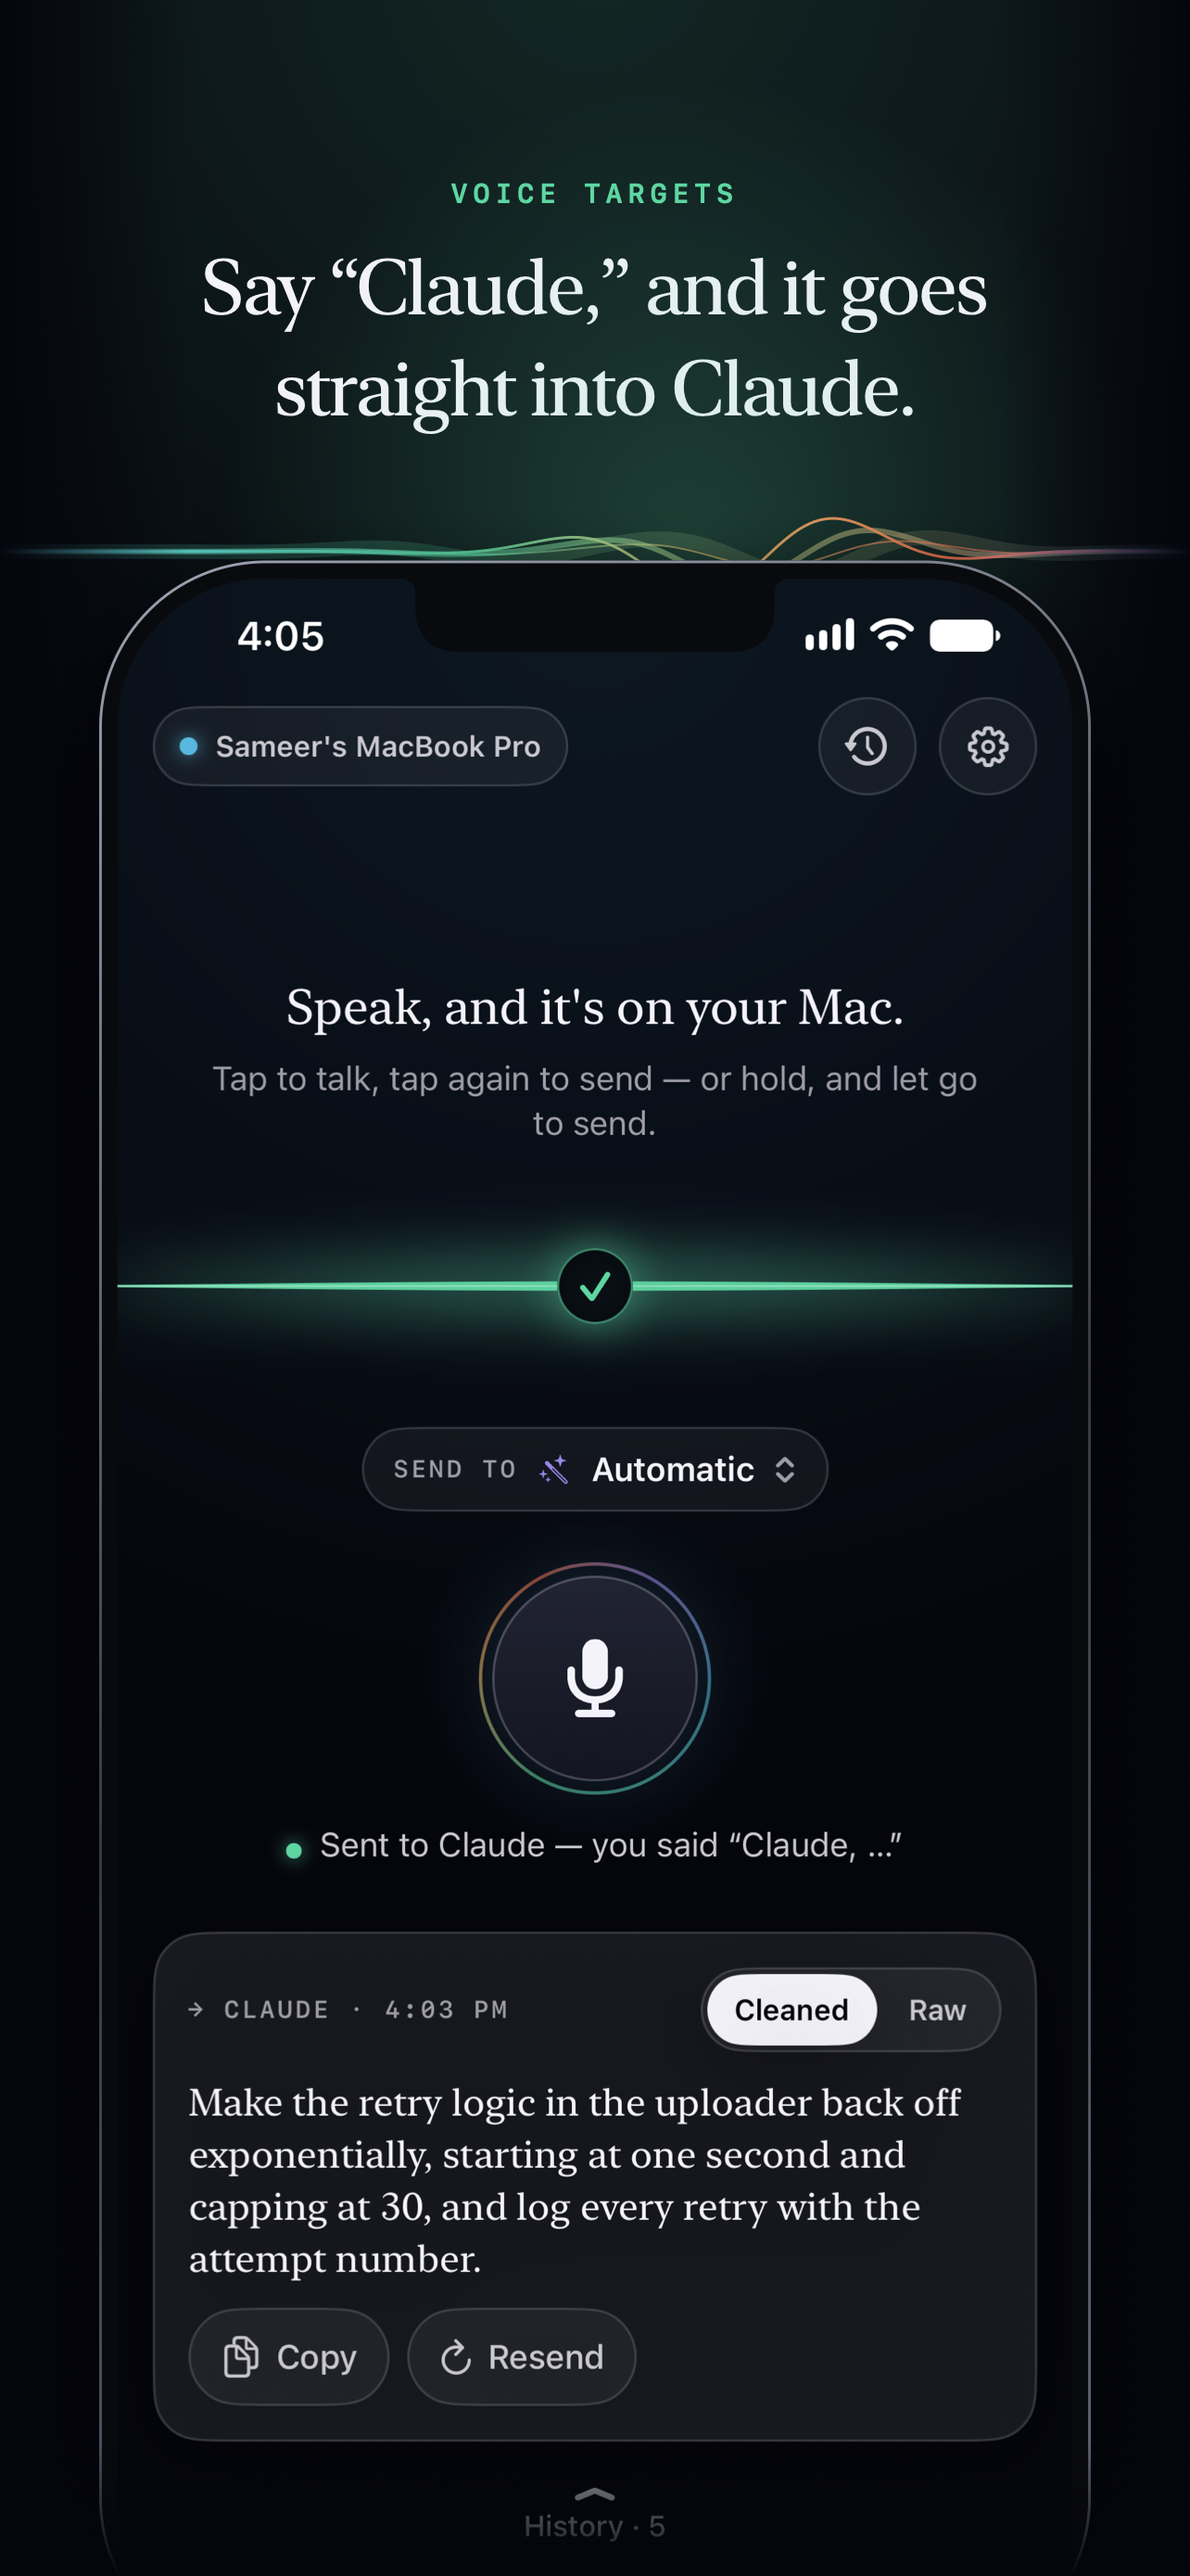
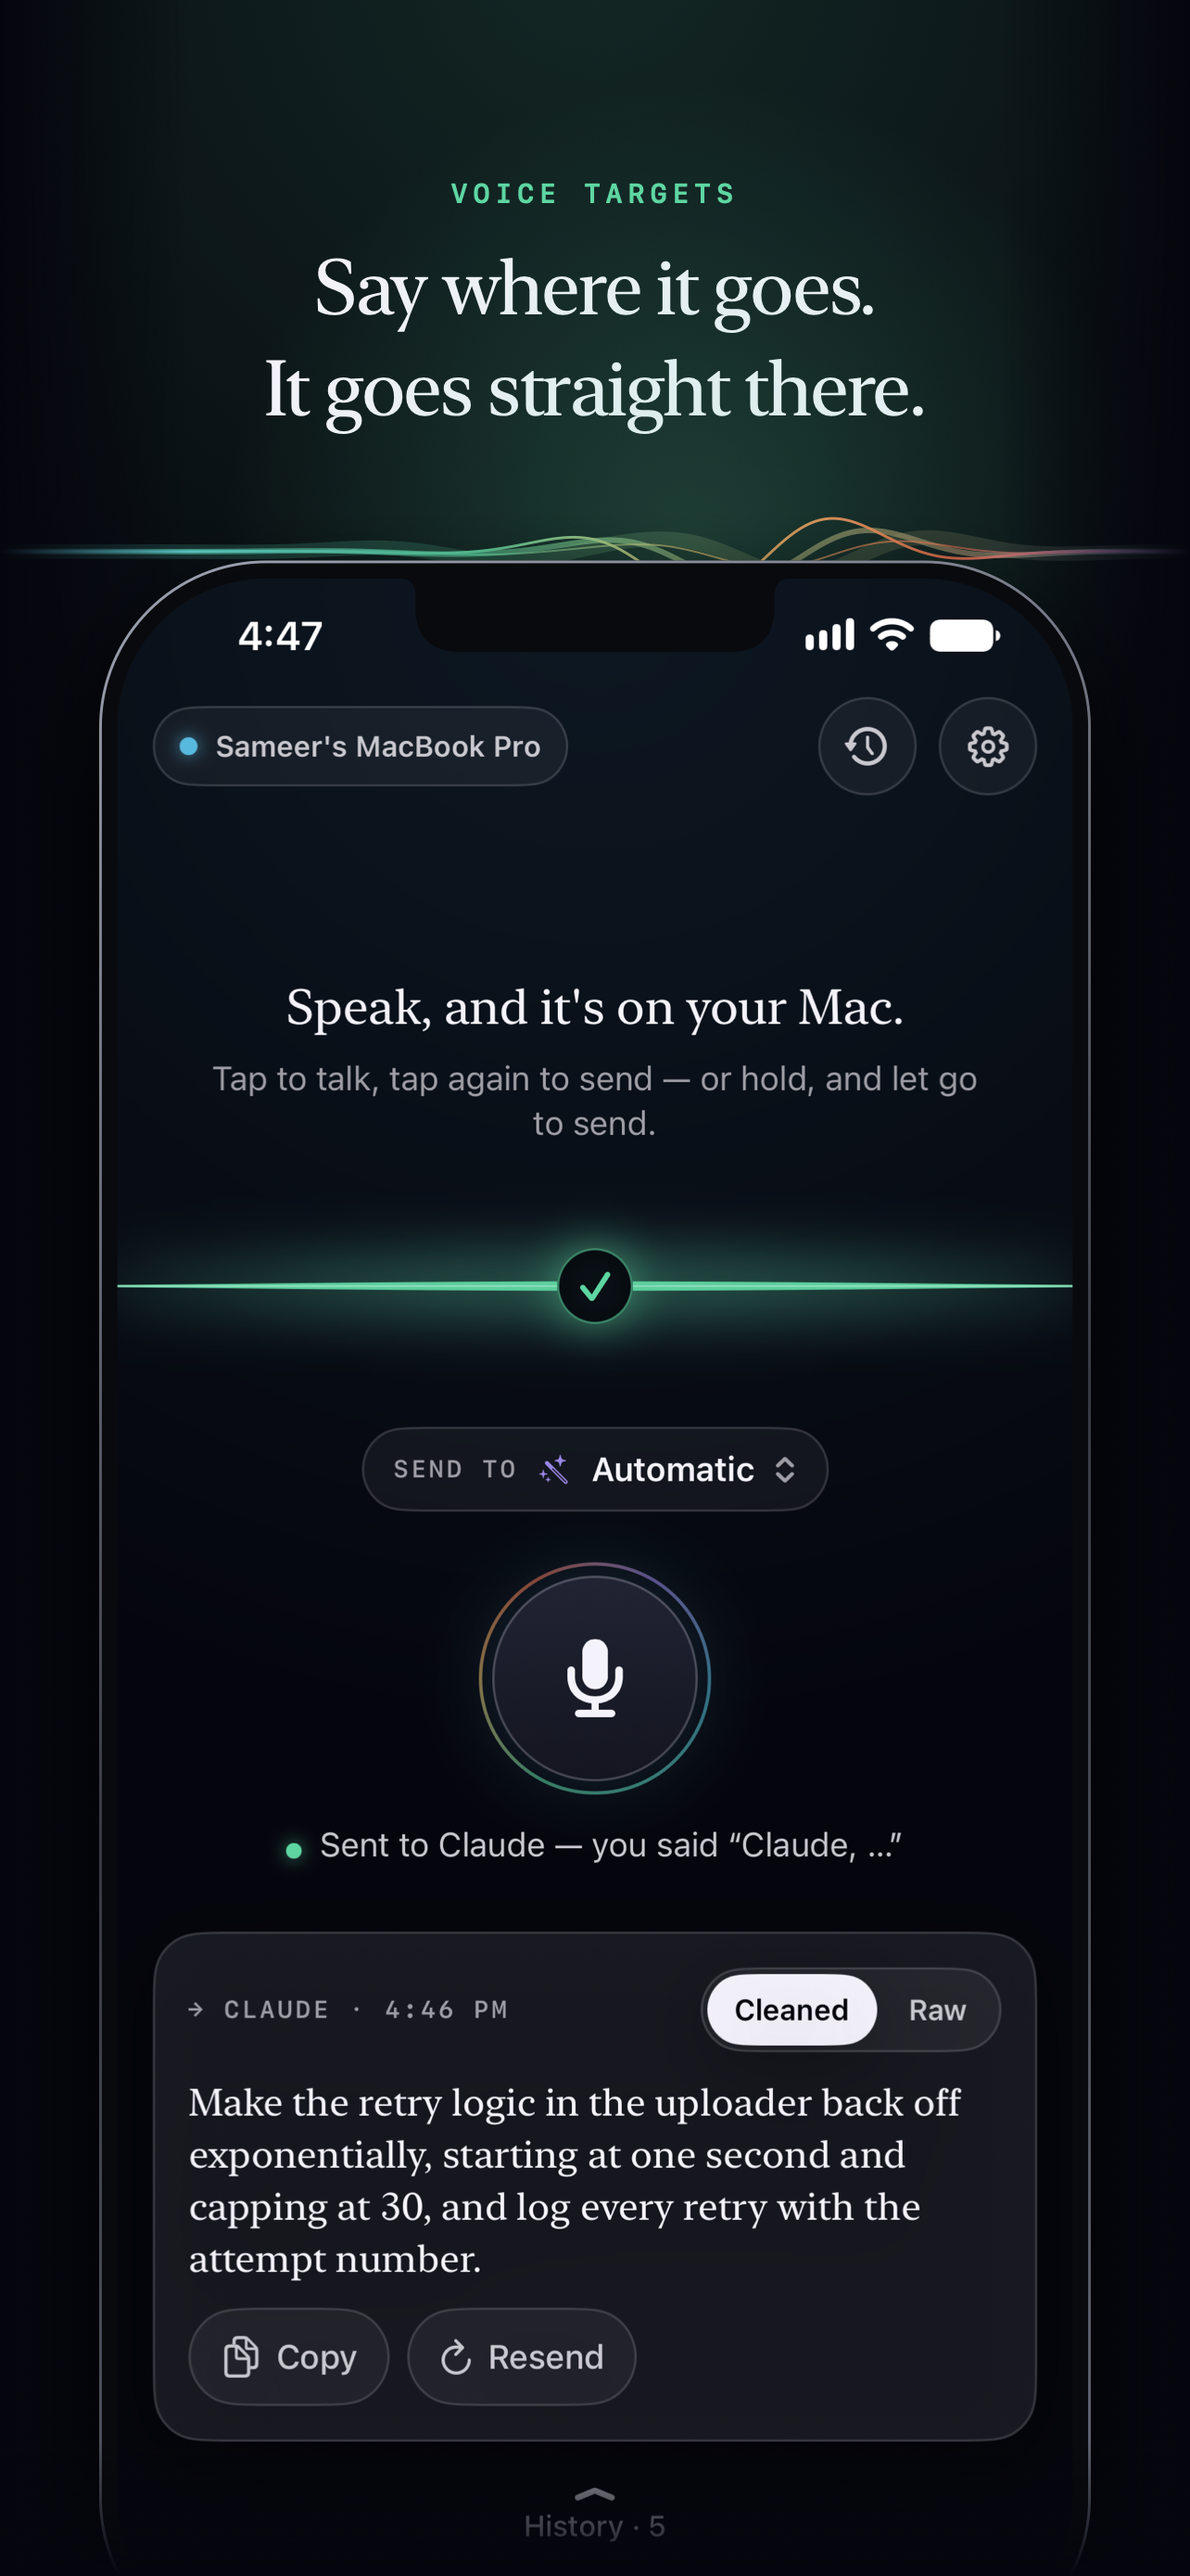
Store screenshot 02: caption names no third-party app ('Say where it goes. It goes straight there.'), per the 2.3.7 review; re-captured both sizes

Changed region(s): [[0.1558, 0.0929, 0.8411, 0.1857]]

diff --git a/iOS/scripts/render-store-shots.swift b/iOS/scripts/render-store-shots.swift
@@ -53,7 +53,7 @@ struct Shot {
 
 let shots: [Shot] = [
     Shot(file: "01-recording", kicker: "Dictate", caption: "Speak into your iPhone.\nIt lands on your Mac.", glow: ember, peak: 0.42),
-    Shot(file: "02-delivered", kicker: "Voice targets", caption: "Say “Claude,” and it goes\nstraight into Claude.", glow: mint, peak: 0.58),
+    Shot(file: "02-delivered", kicker: "Voice targets", caption: "Say where it goes.\nIt goes straight there.", glow: mint, peak: 0.58),
     Shot(file: "03-send-to", kicker: "Send to", caption: "Pick where it goes.\nOr just say it.", glow: cyan, peak: 0.36),
     Shot(file: "04-cleanup", kicker: "Cleanup", caption: "Four levels of cleanup.\nIt edits, never answers.", glow: teal, peak: 0.62,
          beforeAfter: ("so um the thing I want is, uh, make the retry logic back off, no wait, back off exponentially and cap it at thirty seconds",

diff --git a/docs/APP_STORE.md b/docs/APP_STORE.md
@@ -193,7 +193,7 @@ the phone below with the Filament crossing the frame.
 | # | File | Screen | Kicker | Caption (in the image) |
 | --- | --- | --- | --- | --- |
 | 1 | `01-recording.png` | Mid-dictation: live transcript starting “Claude, …”, the Filament alive, timer, **SAID · Claude** chip, “Listening — this one goes to Claude” | DICTATE | Speak into your iPhone. It lands on your Mac. |
-| 2 | `02-delivered.png` | Delivered: mint line with ✓, Send to · Automatic, “Sent to Claude — you said “Claude, …””, last dictation card (→ CLAUDE, Cleaned / Raw, Copy, Resend) | VOICE TARGETS | Say “Claude,” and it goes straight into Claude. |
+| 2 | `02-delivered.png` | Delivered: mint line with ✓, Send to · Automatic, “Sent to Claude — you said “Claude, …””, last dictation card (→ CLAUDE, Cleaned / Raw, Copy, Resend) | VOICE TARGETS | Say where it goes. It goes straight there. |
 | 3 | `03-send-to.png` | The Send To sheet: Automatic, then the Mac's targets (Clipboard, Claude, Claude Code (Terminal), ChatGPT, Cursor, Quick note) with their “Say …” hints | SEND TO | Pick where it goes. Or just say it. |
 | 4 | `04-cleanup.png` | Settings: the cleanup slider (Off · Light · Medium · Heavy) with a HEARD / SENT · MEDIUM CLEANUP card | CLEANUP | Four levels of cleanup. It edits, never answers. |
 | 5 | `05-history.png` | History: three items with Cleaned / Raw, target chips (Claude · you said “Claude, …”, Claude Code (Terminal), Automatic), Delivered, cleanup level | HISTORY | Raw and cleaned, kept on your iPhone. |
@@ -211,7 +211,7 @@ App Preview video (optional, 15–30 s): the website's demo loop as a real recor
 **Recommendation:** keep third-party names out of the name, subtitle, keywords and promotional
 text and out of screenshot *captions*; name them only in the description, as compatibility
 statements with a non-affiliation line, and in the real app UI shown in screenshots. Concretely:
-change shot 2's caption from “Say “Claude,” and it goes straight into Claude.” to “Say where it
+change shot 2's caption from “Say where it goes. It goes straight there.” to “Say where it
 goes. It goes straight there.”; shots 1, 3 and 5 can keep “Claude”, “ChatGPT” and “Cursor”
 inside the UI.
 
